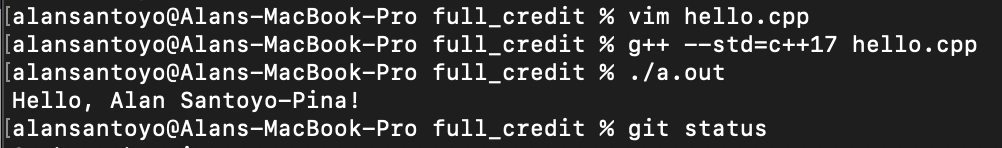
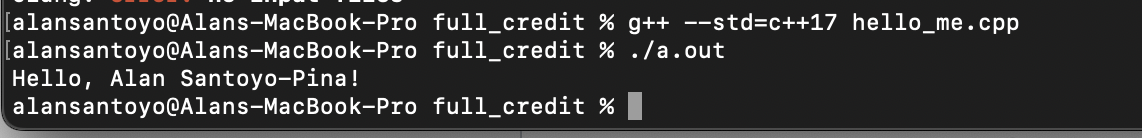
checkpoint

diff --git a/P08/full_credit/hello_me.cpp b/P08/full_credit/hello_me.cpp
@@ -1,0 +1,8 @@
+#include <iostream>
+
+
+int main() {
+
+    std::cout << "Hello, Alan Santoyo-Pina!" << std::endl;
+
+}
